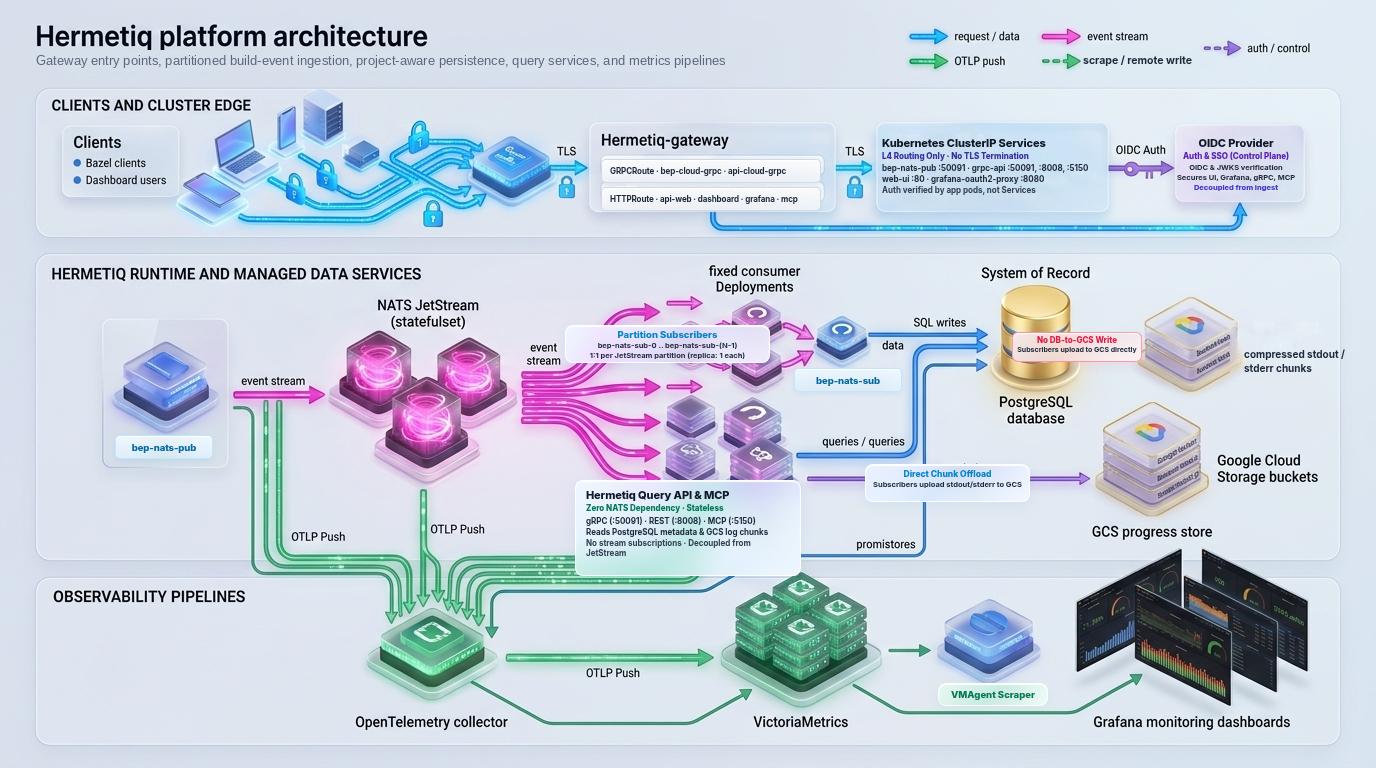
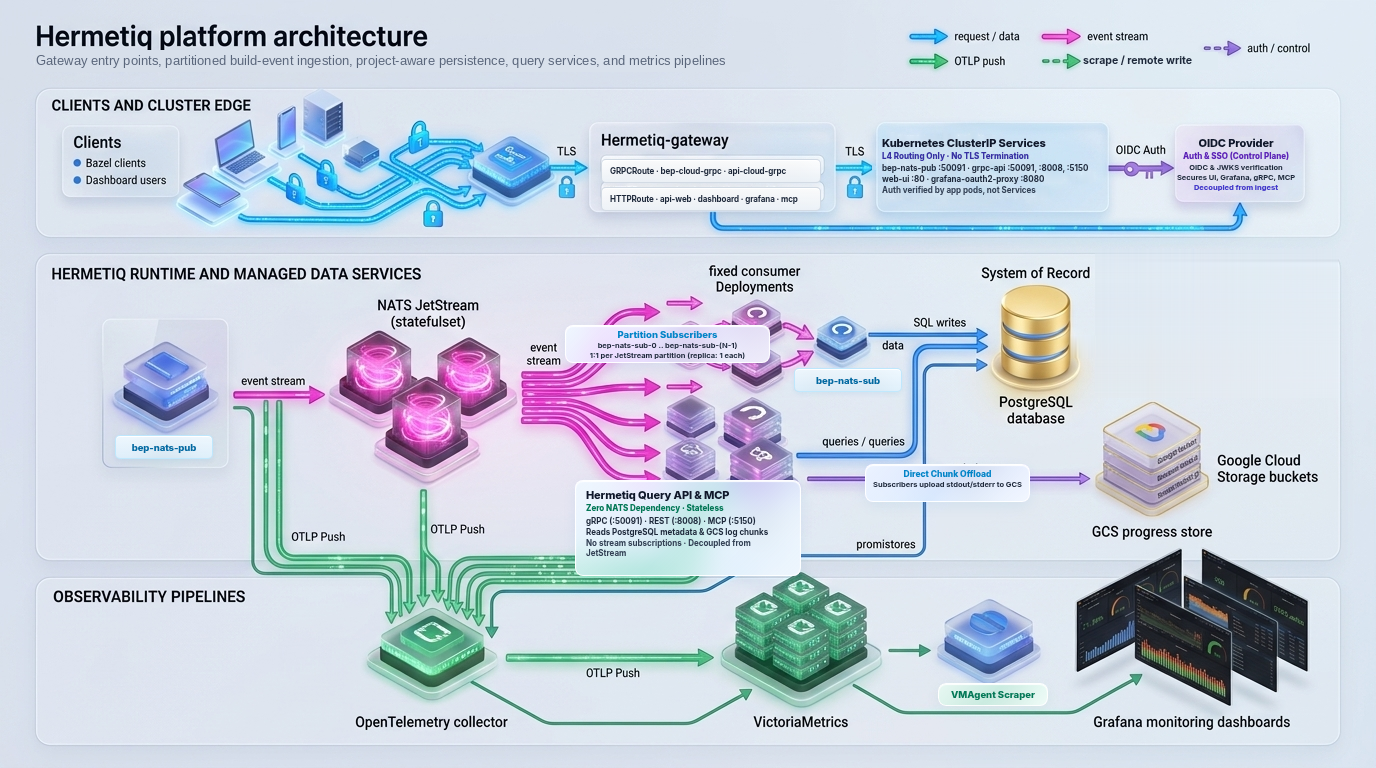
fix(docs): remove duplicate upper GCS bucket and phantom arrow from PostgreSQL

Changed region(s): [[0.7188, 0.375, 0.9688, 0.5312]]

diff --git a/scripts/generate_diagrams.py b/scripts/generate_diagrams.py
@@ -196,6 +196,70 @@ def inpaint_gcs_hybrid(im, box=(1012, 374, 1285, 475)):
     return im_copy
 
 
+def clean_upper_gcs_bucket(im):
+    """
+    Dissolves the hallucinated duplicate upper GCS bucket and phantom blue arrow
+    from PostgreSQL in Diagram 1, restoring the pristine container background.
+    """
+    im_clean = im.copy()
+    box = (1095, 250, 1338, 398)
+    w = box[2] - box[0]
+    h = box[3] - box[1]
+
+    top_row = [im.getpixel((box[0] + x, 249))[:3] for x in range(w)]
+    bottom_row = [im.getpixel((box[0] + x, 399))[:3] for x in range(w)]
+    right_col = [im.getpixel((1338, box[1] + y))[:3] for y in range(h)]
+
+    left_col = []
+    for y in range(h):
+        cur_y = box[1] + y
+        if 336 <= cur_y <= 356:
+            t_pix = im.getpixel((1095, 335))[:3]
+            b_pix = im.getpixel((1095, 357))[:3]
+            weight = (cur_y - 335) / (357 - 335)
+            nr = int(t_pix[0] * (1 - weight) + b_pix[0] * weight)
+            ng = int(t_pix[1] * (1 - weight) + b_pix[1] * weight)
+            nb = int(t_pix[2] * (1 - weight) + b_pix[2] * weight)
+            left_col.append((nr, ng, nb))
+        else:
+            left_col.append(im.getpixel((box[0], cur_y))[:3])
+
+    canvas = Image.new("RGB", (w, h))
+    cpix = canvas.load()
+    for y in range(h):
+        v_weight = y / (h - 1)
+        for x in range(w):
+            h_weight = x / (w - 1)
+            lr, lg, lb = left_col[y]
+            rr, rg, rb = right_col[y]
+            hr = lr * (1 - h_weight) + rr * h_weight
+            hg = lg * (1 - h_weight) + rg * h_weight
+            hb = lb * (1 - h_weight) + rb * h_weight
+
+            tr, tg, tb = top_row[x]
+            br, bg, bb = bottom_row[x]
+            vr = tr * (1 - v_weight) + br * v_weight
+            vg = tg * (1 - v_weight) + bg * v_weight
+            vb = tb * (1 - v_weight) + bb * v_weight
+
+            cpix[x, y] = (int(0.5 * hr + 0.5 * vr), int(0.5 * hg + 0.5 * vg), int(0.5 * hb + 0.5 * vb))
+
+    im_clean.paste(canvas, (box[0], box[1]))
+
+    # Clean arrow stub from postgres: x from 1069 to 1096, y from 336 to 356
+    for y in range(336, 357):
+        weight = (y - 335) / (357 - 335)
+        for x in range(1069, 1096):
+            tr, tg, tb = im.getpixel((x, 335))[:3]
+            br, bg, bb = im.getpixel((x, 357))[:3]
+            nr = int(tr * (1 - weight) + br * weight)
+            ng = int(tg * (1 - weight) + bg * weight)
+            nb = int(tb * (1 - weight) + bb * weight)
+            im_clean.putpixel((x, y), (nr, ng, nb))
+
+    return im_clean
+
+
 def prepare_clean_base_images():
     """Pre-processes base images by dissolving baked-in text in overlay areas."""
     # Prefer pristine fixed-images if present
@@ -209,8 +273,8 @@ def prepare_clean_base_images():
     d1_base = inpaint_text_smooth(d1_base, (872, 128, 1106, 222), lum_threshold=185)
     # Clean OIDC Provider inside card: (1180, 126, 1295, 200) - starts at x=1180 to preserve purple arrow tip (x=1173)
     d1_base = inpaint_text_smooth(d1_base, (1180, 126, 1295, 200), lum_threshold=216)
-    # Clean garbled stderr text next to upper GCS bucket: (1230, 320, 1330, 400)
-    d1_base = inpaint_text_smooth(d1_base, (1230, 320, 1330, 400), lum_threshold=185)
+    # Remove hallucinated duplicate upper GCS bucket & phantom arrow from PostgreSQL
+    d1_base = clean_upper_gcs_bucket(d1_base)
     clean_d1_path = TMP_DIR / "clean_d1.png"
     d1_base.save(clean_d1_path)
 
@@ -478,21 +542,10 @@ def build_d1_html(bg_path: Path) -> str:
   <!-- Section 2: bep-nats-sub replaces erroneous 'bep-nats-pub' under blue writer pod -->
   <div class="glass-sub-pill" style="top: 368px; left: 794px; width: 108px; height: 24px; font-size: 9.5px;">bep-nats-sub</div>
 
-  <!-- Section 2: Finding 3 - No DB write to GCS -->
-  <div class="glass-rose" style="top: 332px; left: 1012px; width: 130px; height: 30px; padding: 2px 4px; text-align: center;">
-    <div style="font-size: 8px; font-weight: 800; color: #e11d48;">No DB-to-GCS Write</div>
-    <div style="font-size: 7px; font-weight: 700; color: #1e293b;">Subscribers upload to GCS directly</div>
-  </div>
-
   <!-- Section 2: Finding 3 - Direct Chunk Offload -->
   <div class="glass-cyan" style="top: 464px; left: 865px; width: 165px; height: 38px; padding: 4px 6px; text-align: center;">
     <div style="font-size: 8.5px; font-weight: 800; color: #0284c7;">Direct Chunk Offload</div>
     <div style="font-size: 7.5px; font-weight: 700; color: #1e293b; margin-top: 1px;">Subscribers upload stdout/stderr to GCS</div>
-  </div>
-
-  <!-- Section 2: GCS compressed stdout/stderr chunks label -->
-  <div style="position: absolute; z-index: 10; top: 348px; left: 1244px; width: 120px;">
-    <div style="font-size: 10px; font-weight: 700; color: #1e293b; line-height: 1.35;">compressed stdout /<br>stderr chunks</div>
   </div>
 
   <!-- Section 3: Finding 4 - VMAgent Scraper -->
